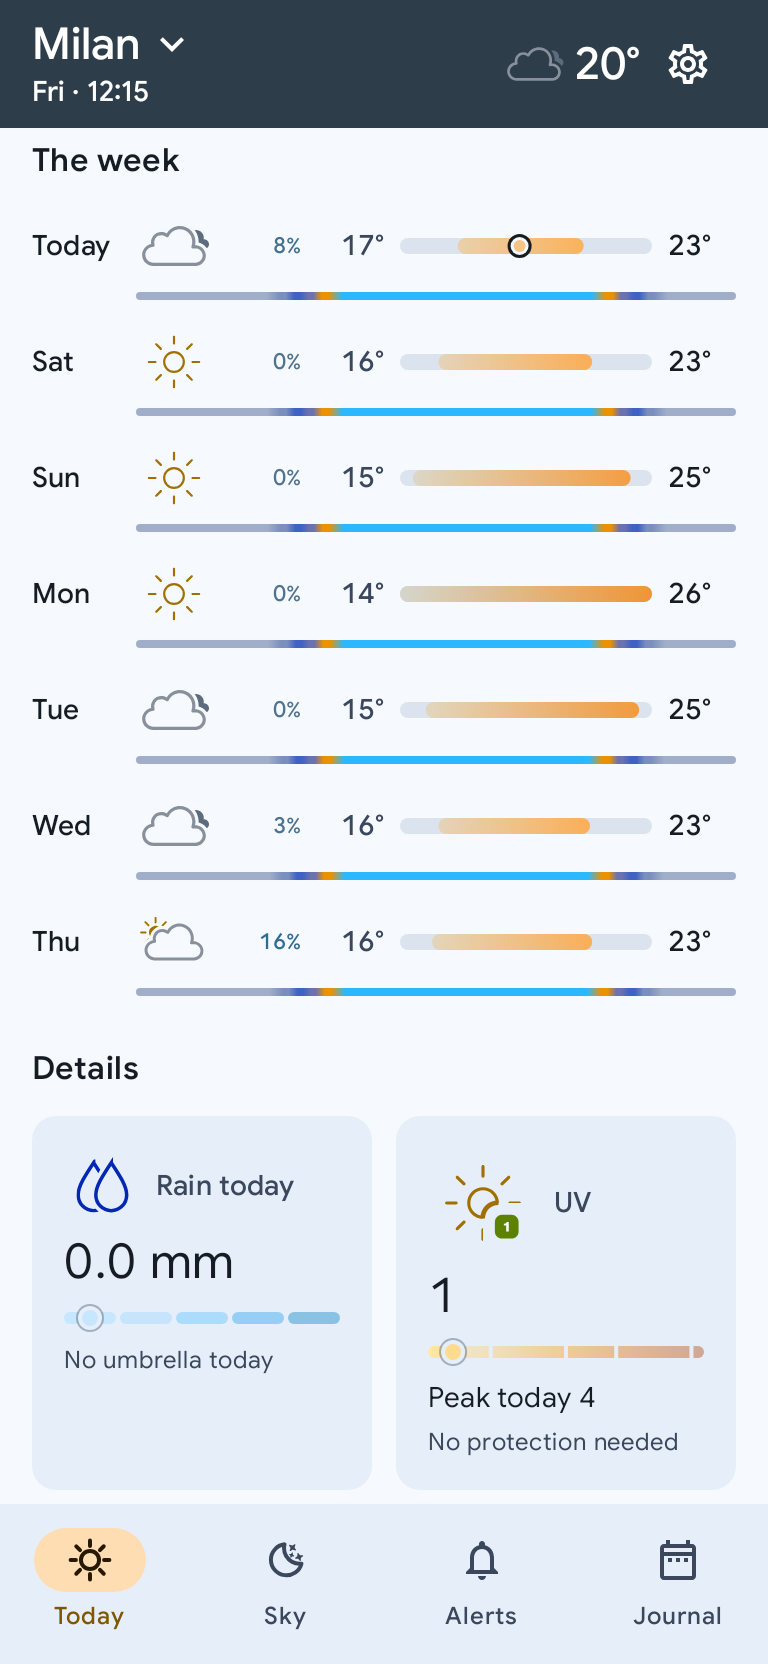
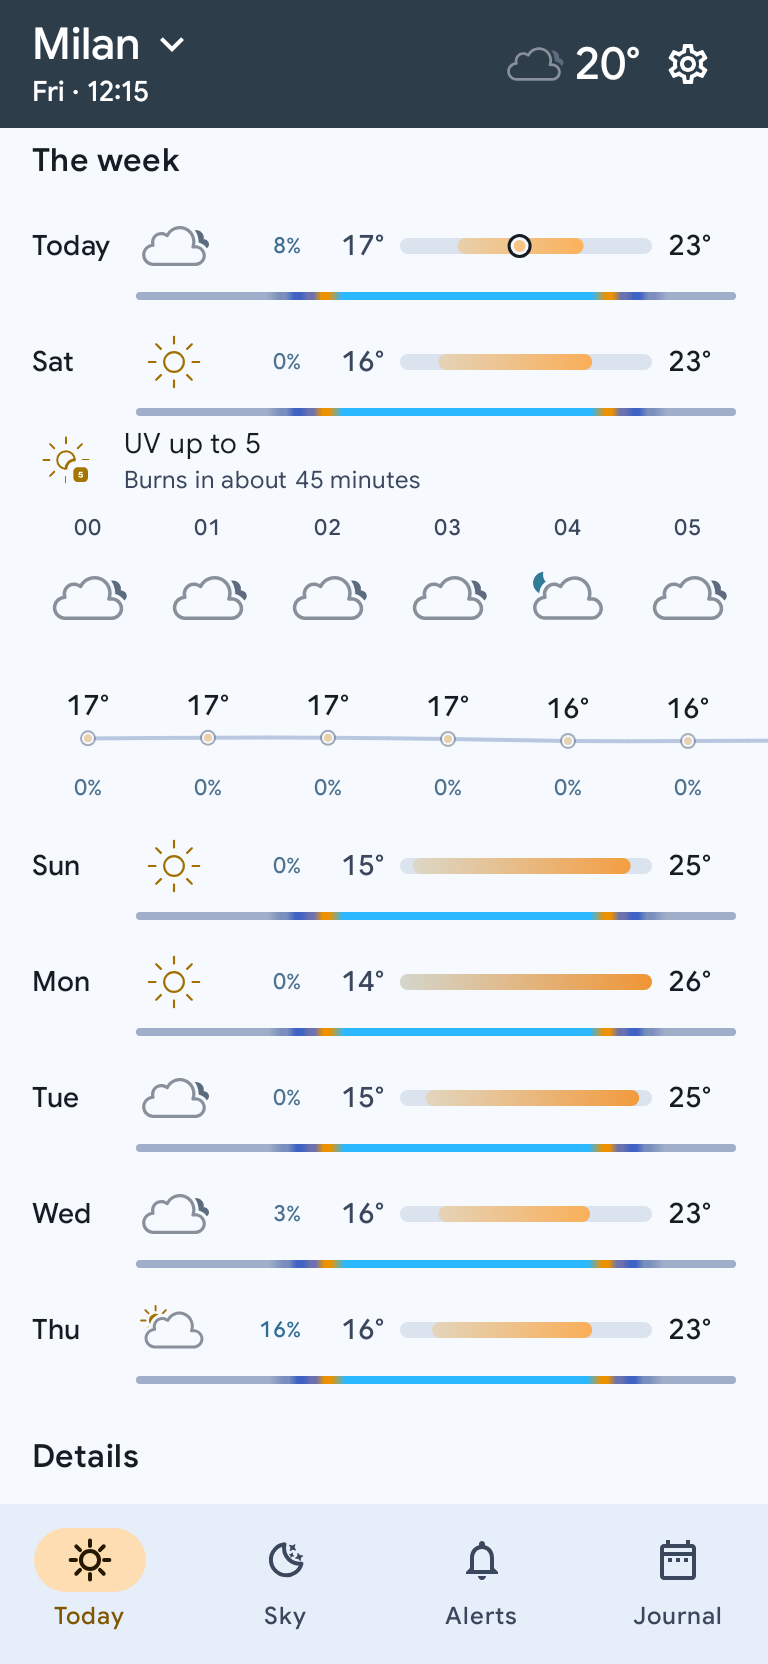
README screenshots: your own alerts, a day opened in the week
Reviewed the pictures against what defines the app. Alerts the reader writes
had no picture: alerts-yours.png shows the "Yours" section with two rules made
from the app's own ideas (Bike, Run) and the row of ideas. today-week.png now
opens tomorrow on its hours and facts. The Journal stays out, measured: Open-
Meteo's archives of past runs cannot give a history with the app's cadence, and
invented history would be the one fake picture.

README regrouped (Today; Sky; Alerts and Settings; the home screen,
photographed) and says what a test does not draw and why. PLANNING records the
review and a bug the new picture shows: the English rule sentence has no verb
("When the temperature now at least 12°"), left for a text decision.

Claude-Session: https://claude.ai/code/session_01Qnm7RkAUR28umzPMu8M5dj

diff --git a/app/src/testDebug/kotlin/com/callbackdev/chiaro/readme/ReadmeScreenshots.kt b/app/src/testDebug/kotlin/com/callbackdev/chiaro/readme/ReadmeScreenshots.kt
@@ -20,6 +20,7 @@ import androidx.compose.ui.test.SemanticsMatcher
 import androidx.compose.ui.test.hasScrollToNodeAction
 import androidx.compose.ui.test.hasText
 import androidx.compose.ui.test.junit4.createAndroidComposeRule
+import androidx.compose.ui.test.performClick
 import androidx.compose.ui.test.performScrollToNode
 import androidx.compose.ui.test.performSemanticsAction
 import androidx.compose.ui.unit.dp
@@ -28,6 +29,7 @@ import com.callbackdev.chiaro.R
 import com.callbackdev.chiaro.domain.placeZone
 import com.callbackdev.chiaro.ui.alerts.AlertsActions
 import com.callbackdev.chiaro.ui.alerts.AlertsScreen
+import com.callbackdev.chiaro.ui.format.Formats
 import com.callbackdev.chiaro.ui.format.LocalClock
 import com.callbackdev.chiaro.ui.guide.GuideRoute
 import com.callbackdev.chiaro.ui.icons.LocalAnimatedIcons
@@ -97,9 +99,15 @@ class ReadmeScreenshots {
         save("today-now")
     }
 
+    /** The week with tomorrow open: its hours and its facts, one tap on its row. */
     @Test
     fun todayWeek() {
         showTab(ShellTab.TODAY) { today() }
+        scrollUnderHeader(R.string.section_week)
+        val tomorrow = MilanRecording.today(app).week[1].forecast.date
+        compose.onNode(hasText(Formats.dayLabel(tomorrow, app.resources.configuration.locales[0])))
+            .performClick()
+        compose.waitForIdle()
         scrollUnderHeader(R.string.section_week)
         save("today-week")
     }
@@ -173,6 +181,22 @@ class ReadmeScreenshots {
             )
         }
         save("alerts")
+    }
+
+    /** Further down: the reader's own alerts, and the ideas they start from. */
+    @Test
+    fun alertsYours() {
+        showTab(ShellTab.ALERTS) {
+            AlertsScreen(
+                state = MilanRecording.alerts(app, MilanRecording.yourRules(app)),
+                actions = AlertsActions({}, {}, {}, {}, {}, {}, {}, { _, _ -> }),
+                onEdit = {},
+                onOpenPlaces = {},
+                onOpenSettings = {}
+            )
+        }
+        scrollUnderHeader(R.string.alerts_group_yours)
+        save("alerts-yours")
     }
 
     @Test

diff --git a/app/src/testDebug/kotlin/com/callbackdev/chiaro/readme/MilanRecording.kt b/app/src/testDebug/kotlin/com/callbackdev/chiaro/readme/MilanRecording.kt
@@ -20,7 +20,11 @@ import com.callbackdev.chiaro.domain.sky.SkyJobCatalog
 import com.callbackdev.chiaro.domain.warnings.DpcBulletinReader
 import com.callbackdev.chiaro.domain.warnings.OfficialWarningEngine
 import com.callbackdev.chiaro.domain.warnings.WarningLevel
+import com.callbackdev.chiaro.domain.rules.MaxRules
+import com.callbackdev.chiaro.domain.rules.NotificationRule
 import com.callbackdev.chiaro.ui.alerts.AlertsUiState
+import com.callbackdev.chiaro.ui.alerts.RuleCardModel
+import com.callbackdev.chiaro.ui.alerts.RuleText
 import com.callbackdev.chiaro.ui.sky.SkyStateBuilder
 import com.callbackdev.chiaro.ui.sky.SkyUiState
 import com.callbackdev.chiaro.ui.today.TodayStateBuilder
@@ -122,11 +126,27 @@ internal object MilanRecording {
         now = now
     )
 
-    fun alerts(context: Context): AlertsUiState.Content = AlertsUiState.Content(
+    /**
+     * Two rules a reader makes with two taps: the Bike and the Run ideas, created exactly
+     * as `AlertsViewModel.addFromTemplate` creates them (the idea's name and message, its
+     * conditions, switched on). The app's own words, so the picture puts no sentence in a
+     * reader's mouth; never fired yet, because nothing has run.
+     */
+    fun yourRules(context: Context): List<NotificationRule> =
+        listOf(RuleText.templates[0], RuleText.templates[2]).mapIndexed { index, template ->
+            NotificationRule(
+                id = index + 1L,
+                name = context.getString(template.nameRes),
+                conditions = template.conditions,
+                message = context.getString(template.messageRes)
+            )
+        }
+
+    fun alerts(context: Context, rules: List<NotificationRule> = emptyList()): AlertsUiState.Content = AlertsUiState.Content(
         placeName = city.name,
         notifications = settings.notifications,
-        rules = emptyList(),
-        canAdd = true,
+        rules = rules.map { RuleCardModel(it, lastFired = null) },
+        canAdd = rules.size < MaxRules,
         units = settings.units,
         zone = placeZone(report, city),
         warnings = warnings(context)

diff --git a/README.md b/README.md
@@ -56,23 +56,27 @@ instead of pretending. Nothing on the screen is there because a layout needed fi
 
 Drawn by the app's own screens from real data for Milan: a forecast from Open-Meteo and a
 bulletin from the Protezione Civile, recorded once and put through the app's own pipeline,
-so every picture shows the current build. In English here; the app ships in Italian and
-English through the system per-app language picker. The phone's status bar is not in the
-pictures, and the two of the home screen are photographs from a phone at v1.0.0, because a
-test cannot draw a launcher. They are regenerated with
-`./gradlew :app:testDebugUnitTest --tests "*ReadmeScreenshots" -PupdateScreenshots`.
+so every picture shows the current build. They are regenerated with
+`./gradlew :app:testDebugUnitTest --tests "*ReadmeScreenshots" -PupdateScreenshots`. In
+English here; the app ships in Italian and English through the system per-app language
+picker. The phone's status bar is not in the pictures.
+
+Two things are not drawn by a test. The home screen, because a test cannot draw a
+launcher: those two pictures are photographs from a phone at v1.0.0. And the Journal, which
+is the history of how the forecast changed over several days: its picture waits for days of
+real updates rather than showing invented ones.
 
 **Today**, one vertical scroll that starts with the sky:
 
 <table>
 <tr>
 <td width="33%"><img src="docs/screenshots/today-now.png" alt="The sky canvas with the temperature, the condition and the daylight ribbon, the next hours, and the rest of the day"></td>
-<td width="33%"><img src="docs/screenshots/today-week.png" alt="The week on one shared temperature scale, each day with its ribbon of light"></td>
+<td width="33%"><img src="docs/screenshots/today-week.png" alt="The week on one shared temperature scale, each day with its ribbon of light, and tomorrow open on its UV and its hours"></td>
 <td width="33%"><img src="docs/screenshots/today-details.png" alt="The details grid: wind, clouds, humidity, pressure, visibility, air quality and pollen, each with the line that says what to do with it"></td>
 </tr>
 <tr>
 <td align="center"><sub>The computed sky, the next hours, the rest of the day</sub></td>
-<td align="center"><sub>The week on one temperature scale, with each day's light</sub></td>
+<td align="center"><sub>The week on one temperature scale, with each day's light. Open a day for its hours and its facts</sub></td>
 <td align="center"><sub>Every number carries its consequence, never a bare value</sub></td>
 </tr>
 </table>
@@ -92,19 +96,34 @@ test cannot draw a launcher. They are regenerated with
 </tr>
 </table>
 
-**Alerts, Settings and the home screen**: what the app sends, how it looks, and what it
-puts on the launcher:
+**Alerts and Settings**: what the app sends and when, the alerts you write yourself, and how
+it looks:
 
 <table>
 <tr>
 <td width="33%"><img src="docs/screenshots/alerts.png" alt="Alerts: when each notification can arrive, then the official Protezione Civile bulletin for the zone and the switch that follows it"></td>
+<td width="33%"><img src="docs/screenshots/alerts-yours.png" alt="Your own alerts: two rules made from the ideas, Bike and Run, each written out as its sentence with its switch, and the row of ideas to start from"></td>
 <td width="33%"><img src="docs/screenshots/settings.png" alt="Settings: the guide, the units, and the appearance with a live preview above the theme, the palette and the typeface"></td>
-<td width="33%"><img src="docs/screenshots/widgets-home.jpg" alt="Four widgets on the home screen: Now, Today, Sky and the next hours"></td>
 </tr>
 <tr>
 <td align="center"><sub>When they arrive, then the official bulletin and what it sends</sub></td>
+<td align="center"><sub>Your own alerts, written as sentences, started from an idea</sub></td>
 <td align="center"><sub>Two palettes, three typefaces, two icon families</sub></td>
+</tr>
+</table>
+
+**The home screen**, photographed on a phone:
+
+<table>
+<tr>
+<td width="33%"><img src="docs/screenshots/widgets-home.jpg" alt="Four widgets on the home screen: Now, Today, Sky and the next hours"></td>
+<td width="33%"><img src="docs/screenshots/widget-day-arc.jpg" alt="The day's arc widget on the home screen"></td>
+<td width="33%"></td>
+</tr>
+<tr>
 <td align="center"><sub>Widgets in Glance, each configured on its own</sub></td>
+<td align="center"><sub>The day's arc: the sun's real path over your place</sub></td>
+<td></td>
 </tr>
 </table>
 

diff --git a/PLANNING.md b/PLANNING.md
@@ -11173,3 +11173,38 @@ schermate le disegnano dei test, a richiesta, e una regola del repo dice quando.
   l'orologio vero (`LocalTime.now(zone)`, sfuggito alla prima ricerca perché aveva un
   argomento), ed è così che sono stati trovati anche Cielo e Diario.
 - `./gradlew test :app:testDebugUnitTest :app:lintDebug :app:assembleDebug`.
+
+### Il seguito: cosa mostrano (committente, 25 set 2026)
+
+Richiesta: rivedere se le schermate coprono tutto quello che c'è da mostrare, e decidere.
+Confrontate con le cinque cose che dicono cos'è l'app (il cielo calcolato, una frase prima dei
+numeri, l'agenda del cielo col verdetto, il diario della previsione, gli avvisi scritti da chi
+legge) e con l'elenco delle funzioni del README:
+
+- **Aggiunta `alerts-yours.png`**: la sezione «Yours» di Avvisi con due regole fatte dalle
+  idee dell'app (Bike e Run, create come le crea `addFromTemplate`: nome, messaggio e
+  condizioni dell'idea, mai scattate) e la fila delle idee, con «Already added» su quella
+  usata. Gli avvisi scritti da chi legge erano l'unico dei cinque tratti senza immagine.
+  Nove immagini generate, non più otto.
+- **`today-week.png` con domani aperto**: la settimana e, sotto la riga di sabato, le sue
+  ore e i suoi fatti (qui l'UV, perché è un giorno asciutto). Prima mostrava solo le righe.
+- **Il Diario resta fuori, misurato**: la Single Runs API di Open-Meteo ridà una corsa
+  passata nella stessa forma della risposta viva, ma rifiuta `daily` se la corsa non parte
+  alla mezzanotte locale («only supported … if 'run' starts at 00:00 in the requested
+  timezone») e le corse delle 22Z non esistono per nessun modello provato (GFS, ICON); la
+  Previous Runs API ha solo ritardi di giorni interi. Un diario ricostruito avrebbe un
+  aggiornamento al giorno con i buchi in mezzo, che dice il falso sul comportamento
+  dell'app. Il README lo dice. La strada onesta è registrare Milano a intervalli per qualche
+  giorno e ricostruire le righe con `WeatherSnapshots.flatten`/`flattenForecast`.
+- **Fuori anche l'editor delle regole**: è un bottom sheet in una finestra sua, che il
+  disegno della finestra dell'attività non contiene, e vuole il view model vero.
+- README: le immagini in quattro gruppi (Oggi; Cielo; Avvisi e Impostazioni; la schermata
+  home, fotografata), il paragrafo iniziale dice cosa non è disegnato da un test e perché.
+
+**Un difetto trovato dall'immagine, non corretto qui**: in inglese la frase della regola è
+«When the temperature now at least 12°», senza verbo (`rule_sentence_fragment` è
+`%1$s %2$s %3$s` e gli operatori sono «at least», «above»…; il README promette «*when*
+rain in the next 6 hours *is* above 70%»). In italiano «la temperatura adesso almeno 12°»
+regge come stile telegrafico. Non toccato in questa modifica, che riguarda le immagini:
+è una decisione di testo del committente (aggiungere «is» agli operatori numerici inglesi,
+o un frammento con il verbo, tenendo «is»/«is not» dei sì/no).

diff --git a/CLAUDE.md b/CLAUDE.md
@@ -137,6 +137,9 @@ ordinary run rewrites an image. Standing rules (committente, 25 set 2026):
 - The two home-screen pictures (`widget-day-arc.jpg`, `widgets-home.jpg`) are photographs
   from a phone at v1.0.0: a test cannot draw a launcher. Replace them by hand when the
   widgets change visibly.
+- **No invented data.** Every picture comes from the recording or from what a reader makes
+  with the app's own words (the alerts are created from its ideas). The Journal has no
+  picture until real history can be recorded (PLANNING.md, «Le schermate del README»).
 
 ## Writing `README.md` (root file only)
 
